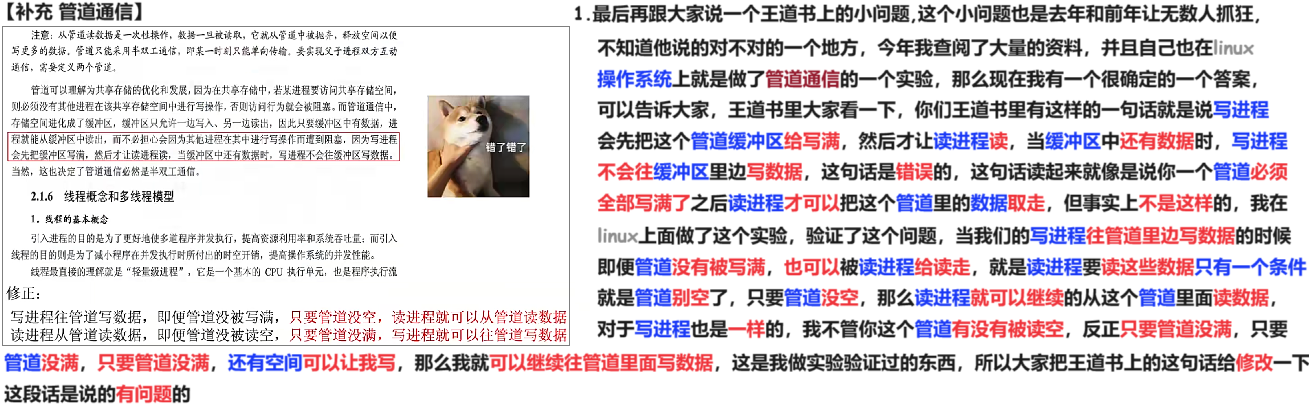
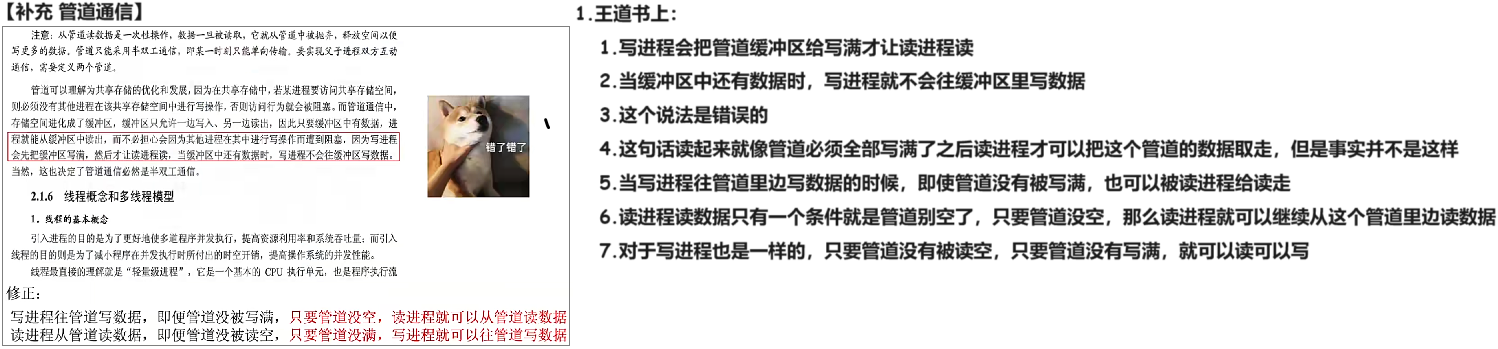
240529

diff --git a/01 初试/01 OS/02 24 25 王道/01 基础/02 进程 线程/01 进程 线程/04 进程通信 IPC 240529/02 消化/02 Doc.md b/01 初试/01 OS/02 24 25 王道/01 基础/02 进程 线程/01 进程 线程/04 进程通信 IPC 240529/02 消化/02 Doc.md
@@ -58,4 +58,4 @@
 
 # 10 补充 管道通信 
 
-<img src="https://cvp.oss-cn-shanghai.aliyuncs.com/picgo/202405121100874.png" alt="image-20240512110043761" style="zoom:50%;" />
+<img src="https://cvp.oss-cn-shanghai.aliyuncs.com/picgo/202405291750863.png" alt="image-20240529175050570" style="zoom:50%;" />
